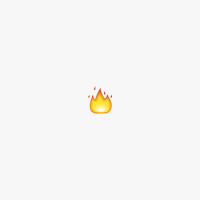
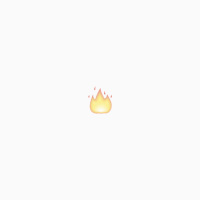
Conditional transition

Changed region(s): [[0.42, 0.45, 0.57, 0.57], [0.45, 0.42, 0.48, 0.45]]

diff --git a/_site/scripts/main.js b/_site/scripts/main.js
@@ -39,6 +39,8 @@ $(document).ready(function() {
     // this.style.opacity = 1;
     console.log("please work")
     if ( $(window).width() > 800 ){
+    $("#project-gif").css("transition", "opacity 0.3s ease");
+
     $("#project-gif").delay(800).css("opacity", "0.05");
   }
     else {

diff --git a/scripts/main.js b/scripts/main.js
@@ -39,6 +39,8 @@ $(document).ready(function() {
     // this.style.opacity = 1;
     console.log("please work")
     if ( $(window).width() > 800 ){
+    $("#project-gif").css("transition", "opacity 0.3s ease");
+
     $("#project-gif").delay(800).css("opacity", "0.05");
   }
     else {

diff --git a/_site/css/main.css b/_site/css/main.css
@@ -5834,7 +5834,7 @@ body .projectSVG {
   .project-gif {
     width: 100px;
     height: 100px;
-    opacity: 0.0; }
+    opacity: 0.9; }
 
   .header-text {
     padding-top: 0px;
